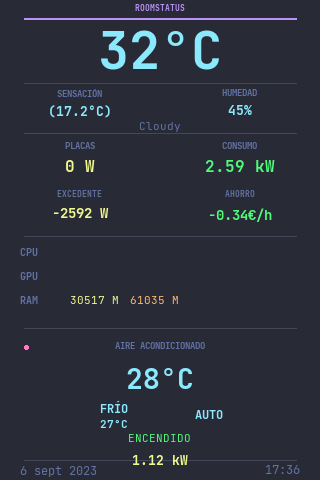
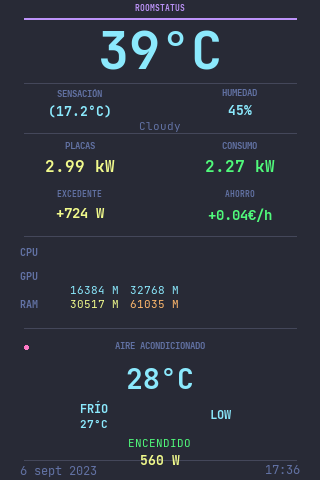
AC mode VENT → VENTILADOR (español)

diff --git a/library/sensors/sensors_custom.py b/library/sensors/sensors_custom.py
@@ -383,8 +383,8 @@ class MideaACTargetTemp(_MideaACBase):
 
 class MideaACMode(_MideaACBase):
     _MODE_NAMES = {
-        1: "AUTO", 2: "FRÍO", 3: "SECO",
-        4: "CALOR", 5: "VENT", 6: "S.DRY",
+         1: "AUTO", 2: "FRÍO", 3: "SECO",
+        4: "CALOR", 5: "VENTILADOR", 6: "S.DRY",
     }
 
     def as_numeric(self) -> float: